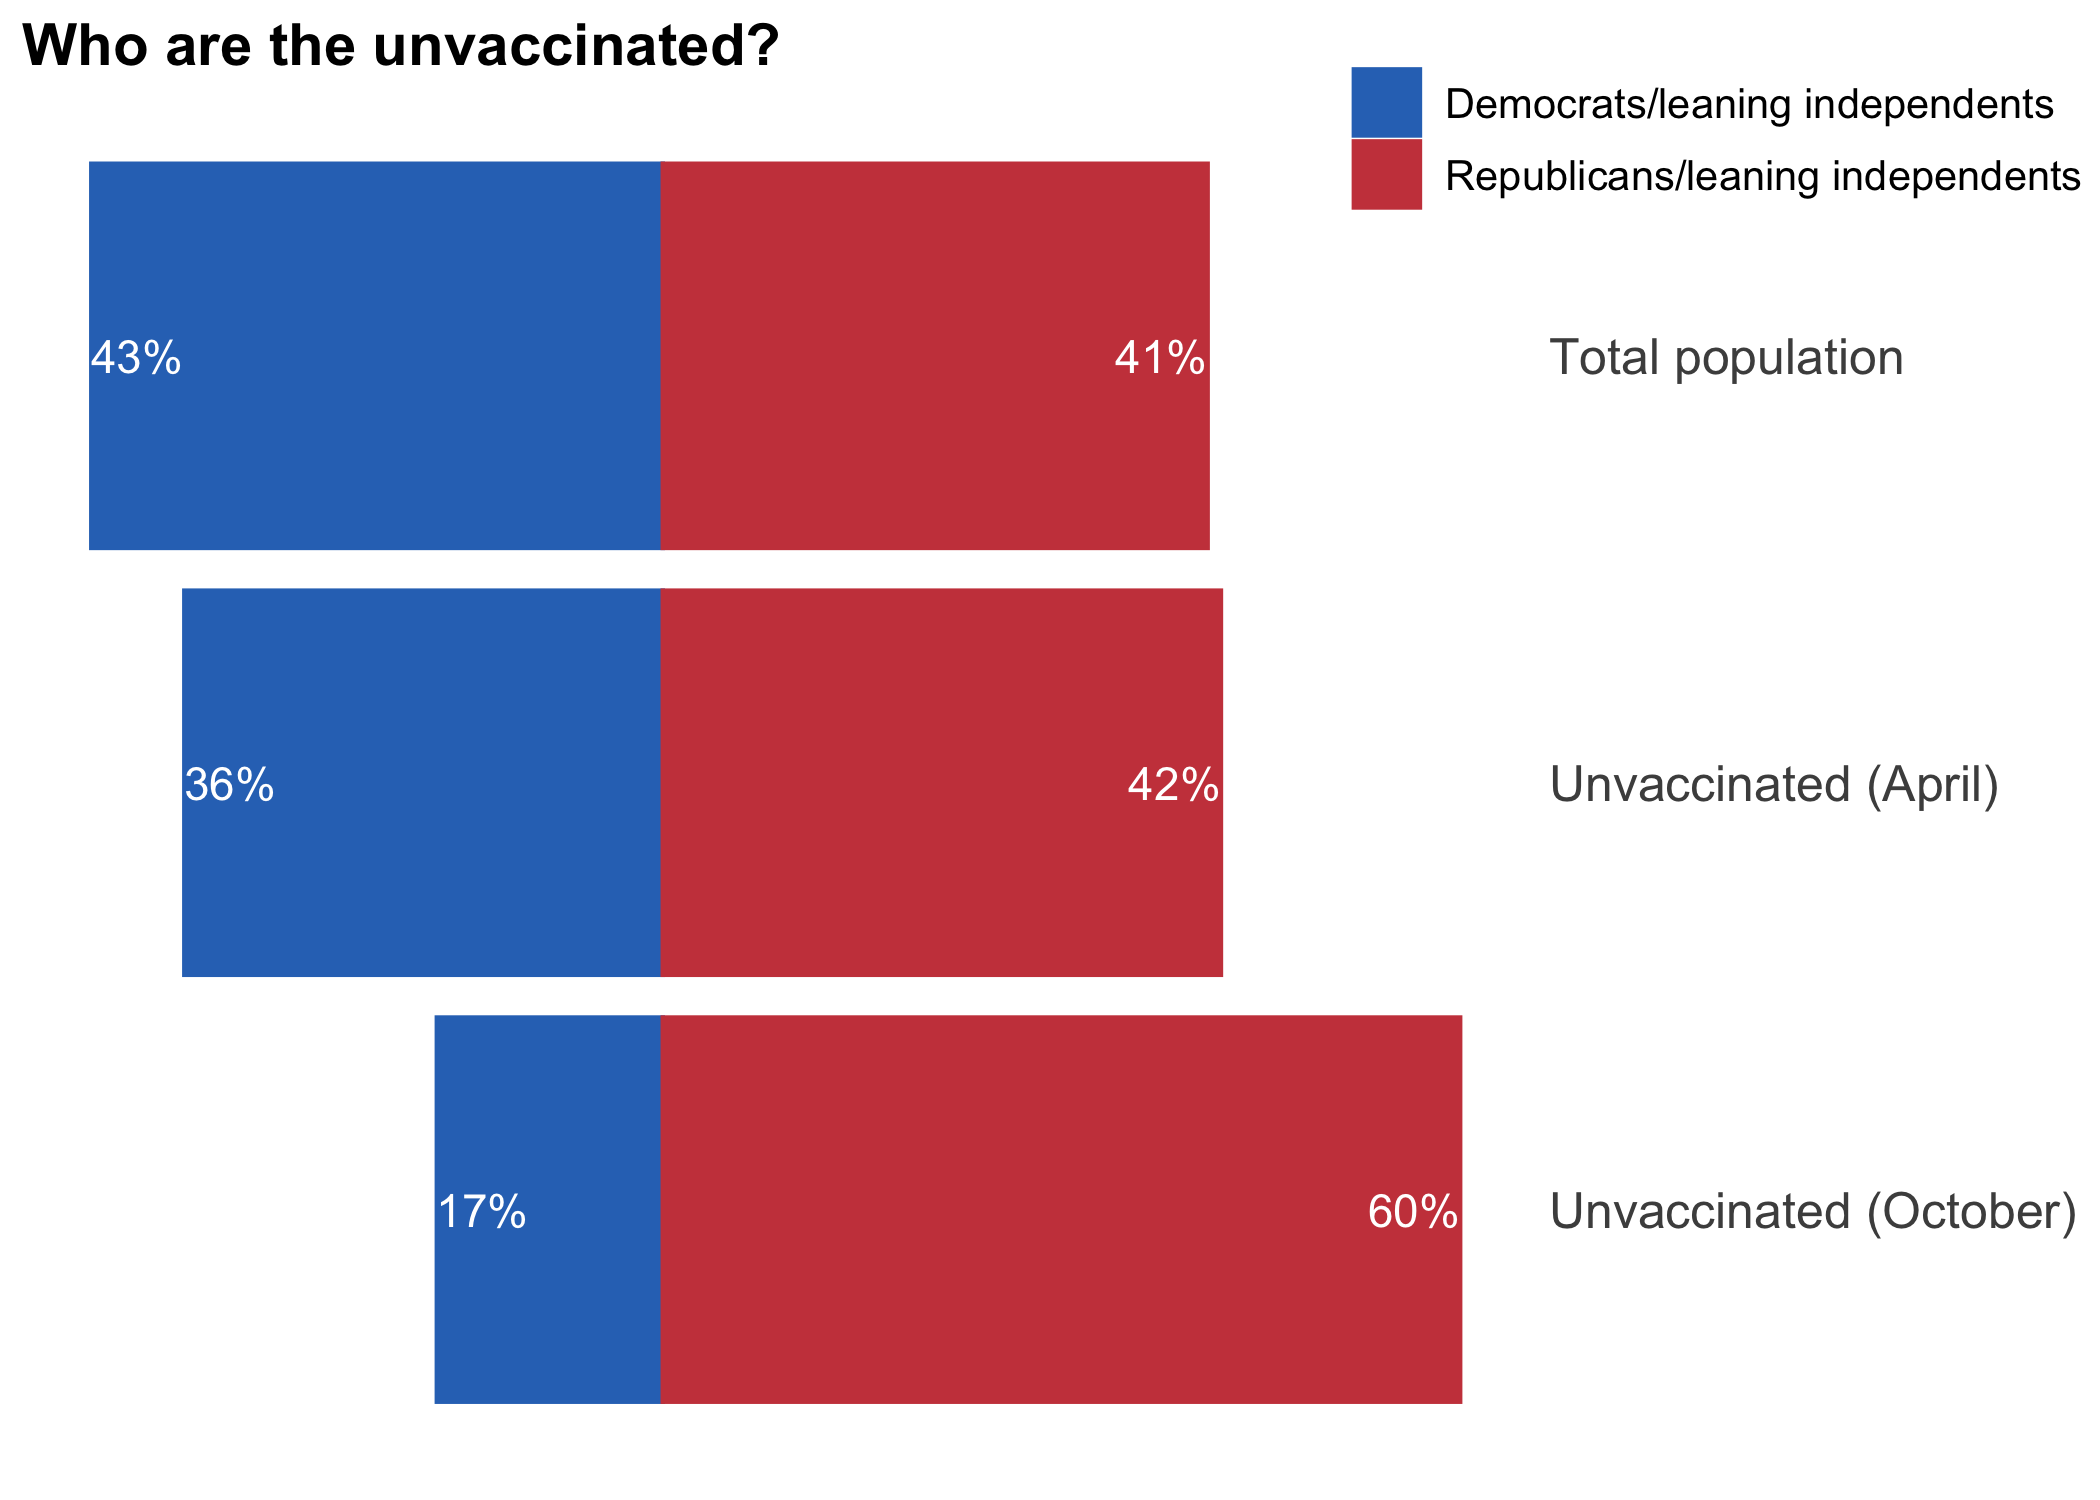
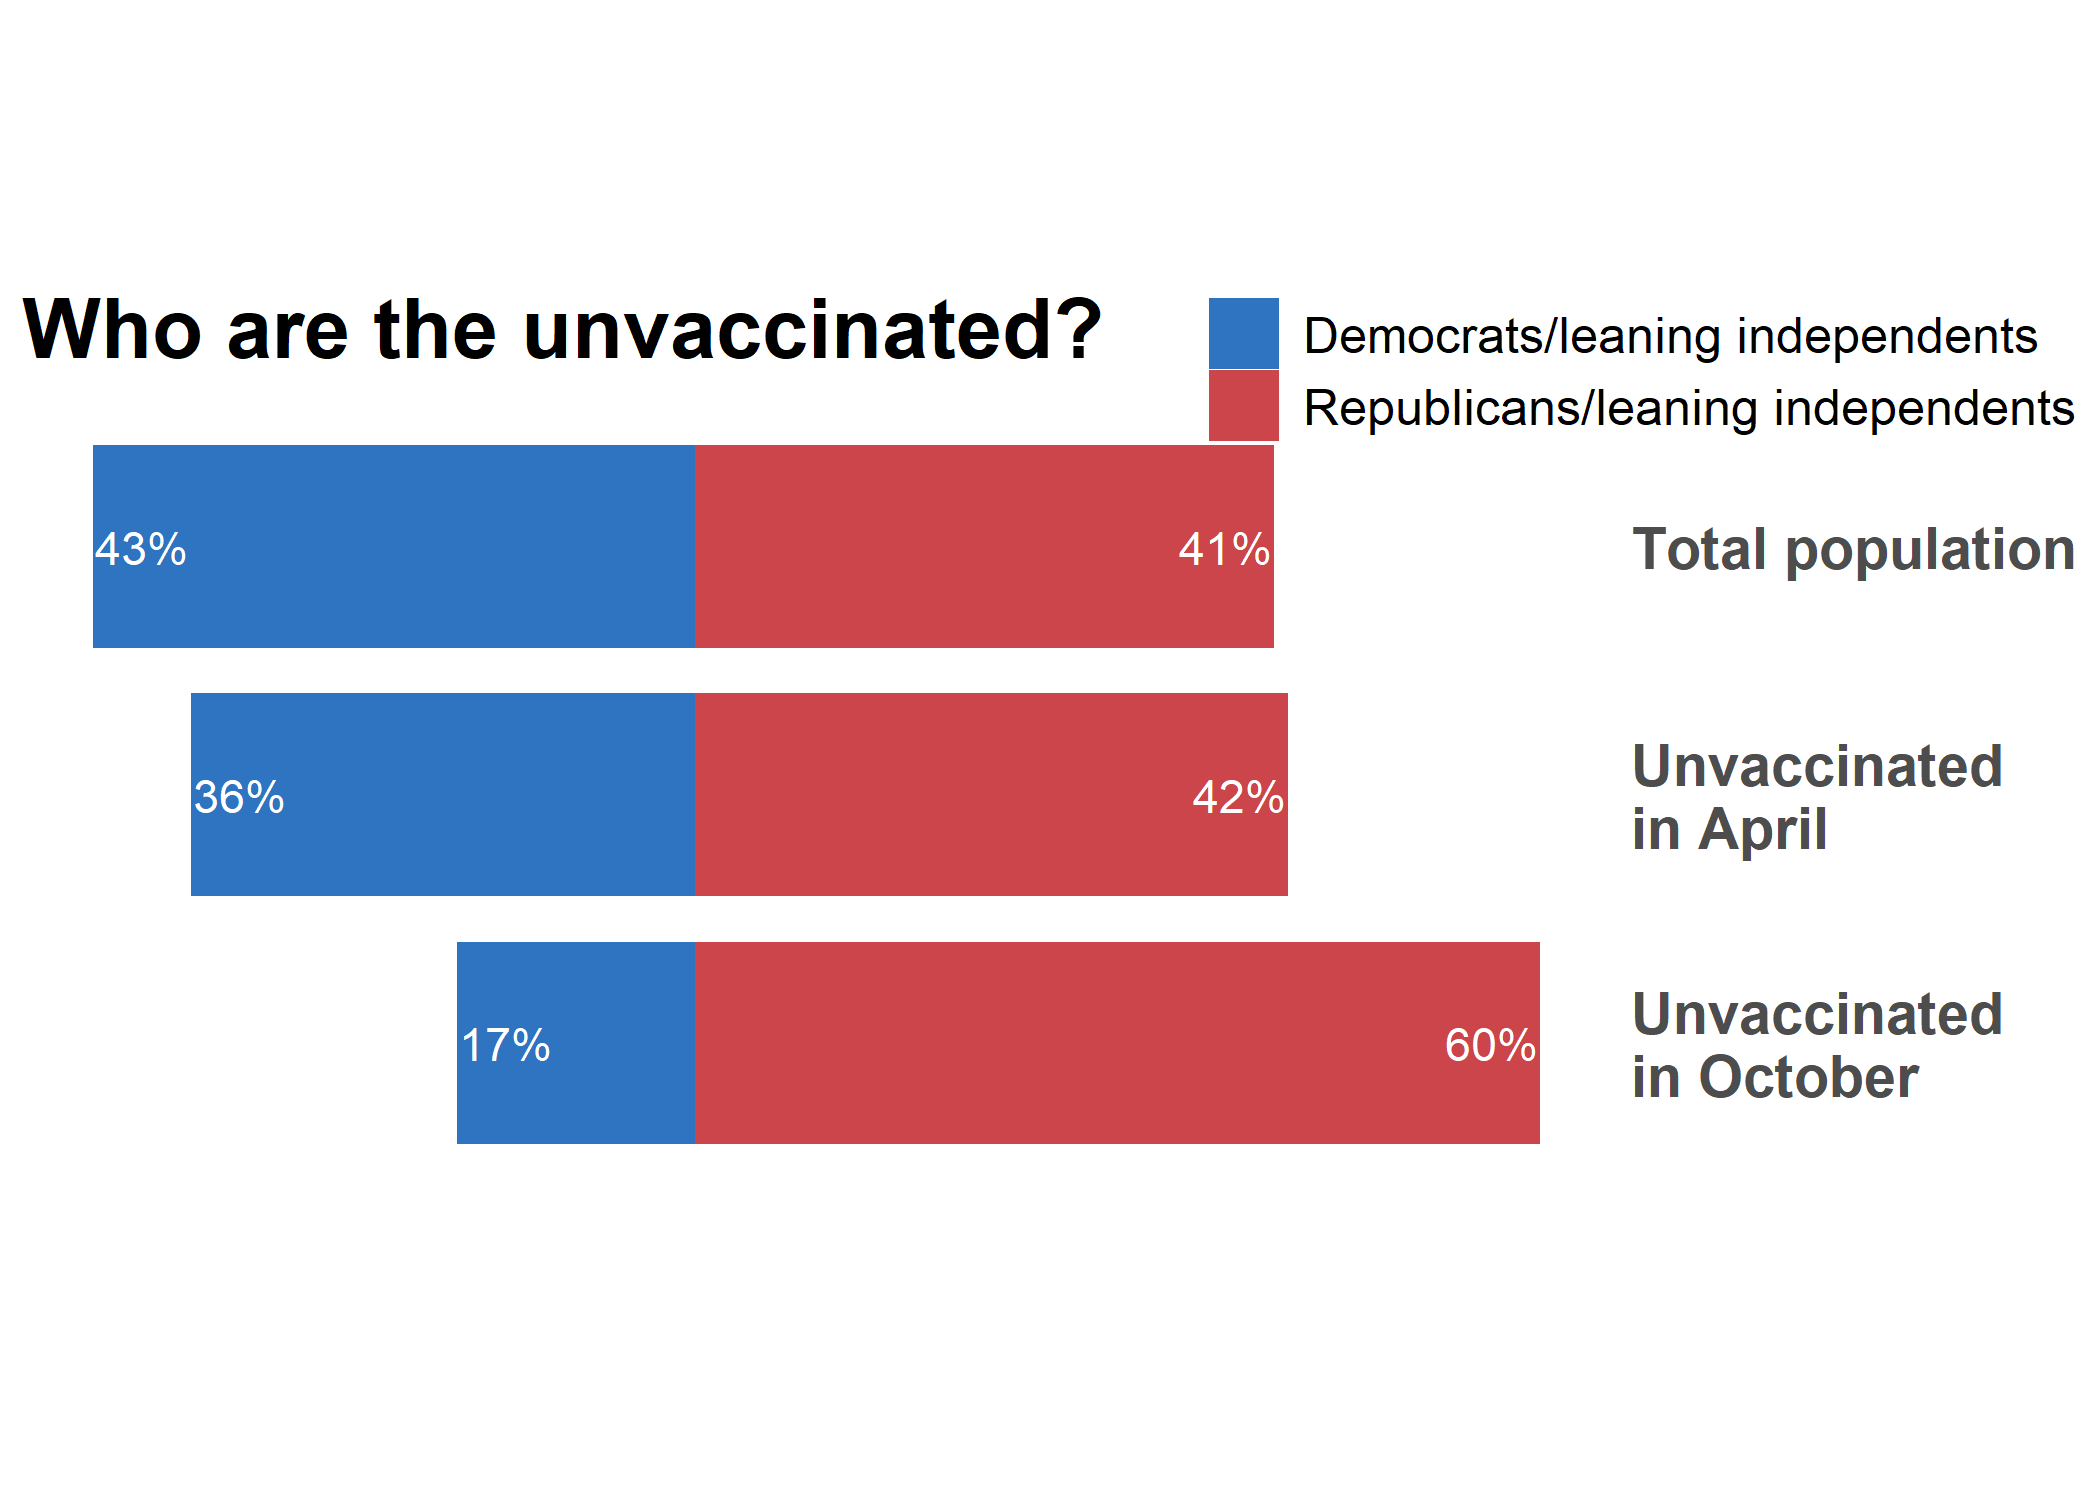
tweak plot and output

diff --git a/README.md b/README.md
@@ -1,16 +1,17 @@
 
-This is a quick re-visualization of a much-maligned plot from [the Washington Post](https://www.washingtonpost.com/politics/2021/11/16/party-divide-vaccination/)using Kaiser Family Foundation polling data.
+
+This is a quick re-visualization of a much-maligned plot from [the Washington Post](https://www.washingtonpost.com/politics/2021/11/16/party-divide-vaccination/) using Kaiser Family Foundation polling data.
 
 
 ```r
 dat <- tribble(
-  ~Population,              ~PoliticalOrientation,              ~Percent,
-  "Total population",       "Democrats/leaning independents",   43,
-  "Total population",       "Republicans/leaning independents", 41,
-  "Unvaccinated (October)", "Democrats/leaning independents",   17,
-  "Unvaccinated (October)", "Republicans/leaning independents", 60,
-  "Unvaccinated (April)",   "Democrats/leaning independents",   36,
-  "Unvaccinated (April)",   "Republicans/leaning independents", 42
+  ~Population,                ~PoliticalOrientation,              ~Percent,
+  "Total population",         "Democrats/leaning independents",   43,
+  "Total population",         "Republicans/leaning independents", 41,
+  "Unvaccinated\nin October", "Democrats/leaning independents",   17,
+  "Unvaccinated\nin October", "Republicans/leaning independents", 60,
+  "Unvaccinated\nin April",   "Democrats/leaning independents",   36,
+  "Unvaccinated\nin April",   "Republicans/leaning independents", 42
   ) %>% 
   mutate(
     PercentLabel = Percent,
@@ -33,7 +34,7 @@ g <- dat  %>%
   )
 
 g +
-  geom_col() +
+  geom_col(width = .8) +
   geom_text(
     data = subset(
       dat, 
@@ -56,23 +57,27 @@ g +
   ggtitle("Who are the unvaccinated?") +
   theme_minimal() +
   theme(
+    aspect.ratio = .5,
     axis.title = element_blank(),
     axis.text.x = element_blank(),
     panel.grid = element_blank(),
     legend.direction = "vertical",
-    legend.position = c(1.125, .98),
+    legend.position = c(1.02, 1.05),
     legend.title = element_blank(),
-    legend.text = element_text(size = 10),
-    axis.text.y = element_text(size = 12),
-    plot.title = element_text(size = 14, face = "bold", hjust = 0)
+    legend.text = element_text(size = 12),
+    axis.text.y = element_text(size = 14, face = "bold"),
+    plot.title = element_text(size = 20, face = "bold", hjust = 0)
   )
 ```
 
 ![](README_files/figure-html/unnamed-chunk-1-1.png)<!-- -->
 
-* Compared to their prevalence in the overall US population, Democrats/leaning independents are **under-represented** among the unvaccinated--and even moreso in October than in April 2021.
+Compared to their prevalence in the overall US population:
 
-* Compared to their prevalence in the overall US population, Republicans/leaning independents are **over-represented** among the unvaccinated as of October, 2021.
+  * Democrats/leaning independents are **under-represented** among the unvaccinated
+  
+  * Republicans/leaning independents are **over-represented** among the unvaccinated
+
 
 
 ```r
@@ -80,39 +85,48 @@ sessionInfo()
 ```
 
 ```
-## R version 3.6.2 (2019-12-12)
-## Platform: x86_64-apple-darwin15.6.0 (64-bit)
-## Running under: macOS Catalina 10.15.7
+## R version 4.0.4 (2021-02-15)
+## Platform: x86_64-w64-mingw32/x64 (64-bit)
+## Running under: Windows 10 x64 (build 19042)
 ## 
 ## Matrix products: default
-## BLAS:   /Library/Frameworks/R.framework/Versions/3.6/Resources/lib/libRblas.0.dylib
-## LAPACK: /Library/Frameworks/R.framework/Versions/3.6/Resources/lib/libRlapack.dylib
 ## 
 ## locale:
-## [1] en_US.UTF-8/en_US.UTF-8/en_US.UTF-8/C/en_US.UTF-8/en_US.UTF-8
+## [1] LC_COLLATE=English_United States.1252 
+## [2] LC_CTYPE=English_United States.1252   
+## [3] LC_MONETARY=English_United States.1252
+## [4] LC_NUMERIC=C                          
+## [5] LC_TIME=English_United States.1252    
 ## 
 ## attached base packages:
 ## [1] stats     graphics  grDevices utils     datasets  methods   base     
 ## 
 ## other attached packages:
-## [1] forcats_0.5.1   stringr_1.4.0   dplyr_1.0.7     purrr_0.3.4    
-## [5] readr_2.1.0     tidyr_1.1.4     tibble_3.1.6    ggplot2_3.3.5  
+## [1] forcats_0.5.1   stringr_1.4.0   dplyr_1.0.5     purrr_0.3.4    
+## [5] readr_2.0.2     tidyr_1.1.3     tibble_3.1.0    ggplot2_3.3.5  
 ## [9] tidyverse_1.3.1
 ## 
 ## loaded via a namespace (and not attached):
-##  [1] tidyselect_1.1.1 xfun_0.11        haven_2.4.3      colorspace_1.4-1
-##  [5] vctrs_0.3.8      generics_0.0.2   htmltools_0.4.0  yaml_2.2.0      
-##  [9] utf8_1.1.4       rlang_0.4.12     pillar_1.6.4     glue_1.5.0      
-## [13] withr_2.4.2      DBI_1.1.0        dbplyr_2.1.1     modelr_0.1.8    
-## [17] readxl_1.3.1     lifecycle_1.0.1  munsell_0.5.0    gtable_0.3.0    
-## [21] cellranger_1.1.0 rvest_1.0.2      evaluate_0.14    labeling_0.3    
-## [25] knitr_1.26       tzdb_0.2.0       fansi_0.4.1      broom_0.7.10    
-## [29] Rcpp_1.0.3       scales_1.1.1     backports_1.1.5  jsonlite_1.7.2  
-## [33] farver_2.1.0     fs_1.3.1         hms_1.1.1        digest_0.6.23   
-## [37] stringi_1.4.4    grid_3.6.2       cli_3.1.0        tools_3.6.2     
-## [41] magrittr_2.0.1   crayon_1.4.2     pkgconfig_2.0.3  ellipsis_0.3.2  
-## [45] xml2_1.3.2       reprex_2.0.1     lubridate_1.8.0  rstudioapi_0.13 
-## [49] assertthat_0.2.1 rmarkdown_2.0    httr_1.4.2       R6_2.4.1        
-## [53] compiler_3.6.2
+##  [1] Rcpp_1.0.7            lubridate_1.7.10      assertthat_0.2.1     
+##  [4] digest_0.6.27         utf8_1.2.1            V8_3.4.0             
+##  [7] R6_2.5.0              cellranger_1.1.0      backports_1.2.1      
+## [10] reprex_2.0.0          evaluate_0.14         highr_0.8            
+## [13] httr_1.4.2            pillar_1.6.0          rlang_0.4.10         
+## [16] curl_4.3              readxl_1.3.1          rstudioapi_0.13      
+## [19] jquerylib_0.1.4       rmarkdown_2.7         labeling_0.4.2       
+## [22] munsell_0.5.0         broom_0.7.9           compiler_4.0.4       
+## [25] modelr_0.1.8          xfun_0.26             pkgconfig_2.0.3      
+## [28] htmltools_0.5.1.1     tidyselect_1.1.0      fansi_0.4.2          
+## [31] crayon_1.4.1          tzdb_0.1.2            dbplyr_2.1.1         
+## [34] withr_2.4.2           grid_4.0.4            jsonlite_1.7.2       
+## [37] gtable_0.3.0          lifecycle_1.0.0       DBI_1.1.1            
+## [40] magrittr_2.0.1        scales_1.1.1          cli_3.0.1            
+## [43] stringi_1.5.3         cachem_1.0.4          farver_2.1.0         
+## [46] fs_1.5.0              xml2_1.3.2            bslib_0.2.4          
+## [49] ellipsis_0.3.1        generics_0.1.0        vctrs_0.3.7          
+## [52] tools_4.0.4           glue_1.4.2            hms_1.0.0            
+## [55] fastmap_1.1.0         rdocsyntax_0.4.1.9000 yaml_2.2.1           
+## [58] colorspace_2.0-0      rvest_1.0.0           memoise_2.0.0        
+## [61] knitr_1.31            haven_2.3.1           sass_0.3.1
 ```
 
